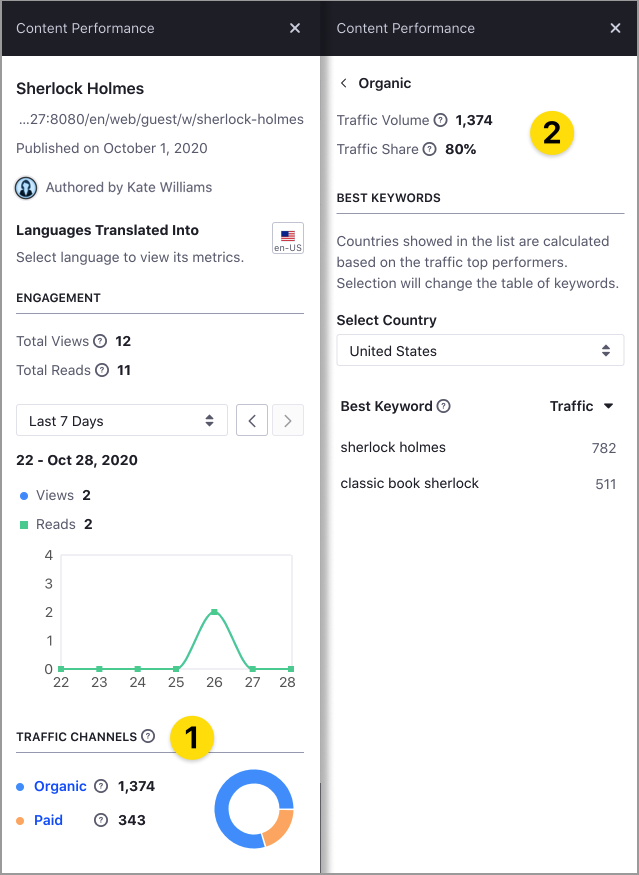
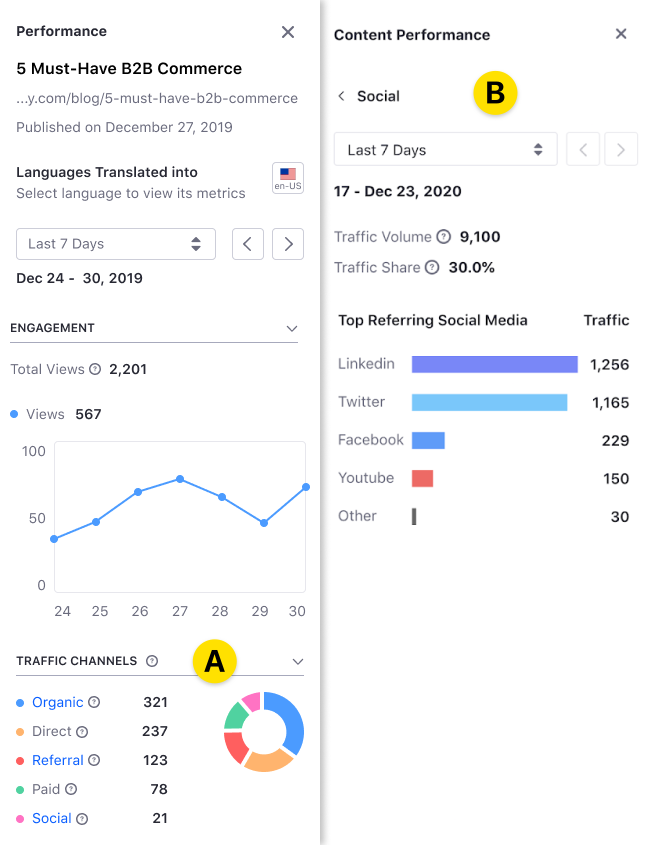
LRDOCS-9218 first draft for SME review

diff --git a/docs/dxp/latest/en/content-authoring-and-management/content-performance-panel/analyze-content-metrics-using-content-performance-panel.md b/docs/dxp/latest/en/content-authoring-and-management/content-performance-panel/analyze-content-metrics-using-content-performance-panel.md
@@ -1,59 +1,82 @@
 # Analyze Content Metrics Using the Content Performance Panel
 
-> Available: Liferay 7.3+.
+> Available: Liferay 7.3+. Some Content Performance options are only available starting with Liferay DXP 7.4.
 
-You can use the Content Performance panel to analyze content metrics, like the number of reads and views, traffic channels, or keywords driving people to your site.
+You can use the Content Performance panel to analyze content metrics, like the number of views, traffic acquisition channels, or keywords driving people to your site. In the Content Performance panel, you can view metrics for the URL of the Content Page, Widget Page, or Web Content associated with a [Display Page Template](../../site-building/displaying-content/using-display-page-templates/displaying-content-with-display-page-templates.md).
 
-Access the Content Performance panel using the *View Metrics* (![View Metrics](../../images/icon-analytics.png)) option for your content. For more information, see [About the Content Performance Panel](./about-the-content-performance-panel.md).
+Access the Content Performance panel using the *View Metrics* (![View Metrics](../../images/icon-analytics.png)) option for your content. You can find this option in the [Applications toolbar](../../getting-started/navigating-dxp.md#applications-bar) and the [Content Dashboard](../content-dashboard/about-the-content-dashboard.md). For more information, see [About the Content Performance Panel](./about-the-content-performance-panel.md).
 
-The Content Performance panel contains two different areas:
+The Content Performance panel contains three different areas:
 
+- [Content Information](#reviewing-content-information)
 - [Engagement](#analyzing-content-engagement)
-- [Search Engine Traffic](#analyzing-search-engine-traffic)
+- [Traffic Channels](#analyzing-traffic-channels)
+
+## Reviewing Content Information
+
+The top area in the Content Performance panel provides general information about your content.
+
+| Label | Description |
+| --- | --- |
+| Content Name | Content or Widget Page's name or name of the asset based on a Display Page Template. |
+| URL | Represent the URL of the Content Page, Widget Page, or Web Content associated with a Display Page Template. |
+| Author | Author's name. This information is only available for Web Content using a Display Page Template. |
+| Publication date | Shows the publication date. Note that when you link the asset to a Display Page Template that is newer than the asset publication date, the publication date corresponds to the Display Page Template creation date. |
+| Languages Translated Into | Shows all the languages available for your site, as well as the default content language. |
+
+The [Engagement](#analyzing-content-engagement) and [Traffic Channels](#analyzing-traffic-channels) areas in the Content Performance panel show statistics for the language selected in the language icon selector. When your content is localized in different languages, you can view metrics for each language.
+
+```note::
+   Even when your content is not translated into a specific language, you may find statistcis for that language if users access the content using that language's URL.
+```
+
+![The top area in the Content Performance panel provides general information about your content.](./analyze-content-metrics-using-content-performance-panel/images/05.png)
 
 ## Analyzing Content Engagement
 
-This area shows the number of Views and Reads of your content, and how these metrics change over time. Views and Reads are two key values to understand your content performance and discover content insights. A visitor accessing content may or may not read it. To distinguish the audience that only visits the content (number of Views) from the audience engaging with the content (number of Reads), Liferay uses a specialized algorithm that considers parameters like article length, language, or scroll behavior, among others.
+This area shows the number of views for the content or Page URL, and how this number changes over time. The number of views is a key value to understand your content performance and discover content insights. For Web Content based on a Display Page Template, the Engagement area shows the number of reads as well. A visitor accessing the Web Content may or may not read it. To distinguish the audience that only visits the content (number of Views) from the audience engaging with the content (number of Reads), Liferay uses a specialized algorithm that considers parameters like article length, language, or scroll behavior, among others.
 
-![The Engagement area in the Content Performance sidebar provides Reads and Views information.](./analyze-content-metrics-using-content-performance-panel/images/06.png)
-
-By default, the Engagement area shows the total number of views and reads for the content, along with the number of views and reads in the last seven days. You can change this period in the drop-down time selector and analyze trends over time using the backward and forward buttons (![Arrow left](../../images/icon-angle-left.png) ![Arrow right](../../images/icon-angle-right.png)). Hover over any part of the line chart to show the Views and Reads for a specific time.
+By default, the Engagement area shows the total number of views for the content, along with the number of views in the last seven days. You can change this period in the drop-down time selector and analyze trends over time using the backward and forward buttons (![Arrow left](../../images/icon-angle-left.png) ![Arrow right](../../images/icon-angle-right.png)). Hover over any part of the line chart to show views for a specific time.
 
 ```note::
    If the Engagement chart shows a zero value for a certain period, it means that the information could not be collected or analyzed for that period.
 ```
 
-When your content is localized in different languages, you can view metrics for each language in the *Languages Translated Into* section. To do so, click on the language icon selector and select the language.
+![The Engagement area in the Content Performance sidebar provides Views information.](./analyze-content-metrics-using-content-performance-panel/images/07.png)
 
-```note::
-   The language selector is only available for localized content.
-```
+## Analyzing Traffic Channels
 
-![You can view metrics for each language in the Content Performance panel.](./analyze-content-metrics-using-content-performance-panel/images/03.png)
+This part of the Content Performance sidebar provides information about the sources driving web traffic to your content. The sources can be:
 
-## Analyzing Search Engine Traffic
+| Traffic Channel | Source Description |
+| --- | --- |
+| Social | Social networks |
+| Organic | Search engines |
+| Paid | Paid keywords |
+| Referral | Sources other than the search engines and same Page's domain |
+| Direct | Other or unknown sources |
 
-This part of the Content Performance sidebar provides information about the sources driving web traffic to your content. The sources can be
+![The Search Engines Traffic area in the Content Performance panel provides information about your traffic channels.](./analyze-content-metrics-using-content-performance-panel/images/06.png)
 
-- **Organic:** People finding the content through a search engine.
-- **Paid:** People finding the content through paid keywords.
+When you click one of the traffic channels (A), you can see extended information for the channel (B).
 
-    ![The Search Engines Traffic area in the Content Performance panel provides information about your traffic sources.](./analyze-content-metrics-using-content-performance-panel/images/07.png)
+![Click on the traffic channels to access additional channel details.](./analyze-content-metrics-using-content-performance-panel/images/02.png)
 
-You can click the sources in the graphic (1) to access additional metrics about these sources, or (2) filter the information by country. The following table describes these metrics:
+The following table describes the metrics you can find in the Traffic Channels area:
 
 | Label | Description |
 | --- | --- |
-| Traffic Volume | The estimated number of visitors to your page |
-| Traffic Share | Percentage of traffic your content receives from the traffic source |
-| Best Keyword | Top five keywords driving traffic through organic search |
-| Best Paid Keyword | Top five keywords driving traffic through paid search |
+| Traffic Volume | The estimated number of visitors to your page. |
+| Traffic Share | Percentage of traffic your content receives from the traffic source. |
+| Best Keyword | Top five keywords driving traffic through organic search. |
+| Best Paid Keyword | Top five keywords driving traffic through paid search. |
+| Top Referring Social Media | Top ten social media networks driving traffic to your Page. |
+| Top Referring Pages | Top ten referrer Pages driving traffic to your Page. |
+| Top Referring Domains | Top ten referrer domains driving traffic to your Page. |
 
 ```note::
    Keywords are one or more words that people use to find content.
 ```
-
-![Click on the traffic channels to access additional details.](./analyze-content-metrics-using-content-performance-panel/images/02.png)
 
 ## Related Information
 

diff --git a/docs/dxp/latest/en/content-authoring-and-management/content-performance-panel/about-the-content-performance-panel.md b/docs/dxp/latest/en/content-authoring-and-management/content-performance-panel/about-the-content-performance-panel.md
@@ -1,8 +1,8 @@
 # About the Content Performance Panel
 
-> Available: Liferay 7.3+.
+> Available: Liferay 7.3+. Some Content Performance options are only available starting with Liferay DXP 7.4.
 
-The *Content Performance* panel is a global application for analyzing performance metrics of your content, like traffic channels or the number of views and reads over time. Using the Content Performance panel, content teams can periodically assess and adapt their content strategy.
+The *Content Performance* panel is a global application for analyzing performance metrics of your content, like traffic acquisition channels or the number of views over time. Using the Content Performance panel, content teams can periodically assess and adapt their content strategy. The Content Performance panel is available for assets based on a [Display Page Template](../site-building/displaying-content/using-display-page-templates/displaying-content-with-display-page-templates.md) and starting with Liferay DXP 7.4, for [Content](../../site-building/creating-pages/building-and-managing-content-pages/content-pages-overview.md) and [Widget](../site-building/creating-pages/using-widget-pages/adding-widgets-to-a-page.md) Pages.
 
 To learn how to analyze your content performance quantitatively using the Content Performance panel, see [Analyze Content Metrics Using the Content Performance panel](./analyze-content-metrics-using-content-performance-panel.md).
 
@@ -10,36 +10,55 @@ To learn how to analyze your content performance quantitatively using the Conten
    To manage and audit your content across Sites and Asset Libraries, use the `Content Dashboard <../content-dashboard/about-the-content-dashboard.md>`_.
 ```
 
-## Accessing the Content Performance Panel
-
-You can open the Content Performance panel from [Web Content](#accessing-the-content-performance-panel-from-web-content) or from the [Content Dashboard](#accessing-the-content-performance-panel-from-the-content-dashboard) using *View Metrics* (![View Metrics](../../images/icon-analytics.png)).
-
 You can access the Content Performance panel when the following conditions are met:
 
-- You have View and Edit permissions for the content.
-- The content is based on a [Display Page Template](../../site-building/displaying-content/using-display-page-templates/displaying-content-with-display-page-templates.md).
 - The Liferay DXP instance has an active [connection to Liferay Analytics Cloud](https://learn.liferay.com/analytics-cloud/latest/en/connecting-data-sources/connecting-liferay-dxp-to-analytics-cloud.html) and your site is synchronized.
+- You have View or Edit permissions for the content.
+- The content is in a Content Page, Widget Page, or is based on a [Display Page Template](../../site-building/displaying-content/using-display-page-templates/displaying-content-with-display-page-templates.md).
 
-```note::
-   The *Metrics* option for your content is available when these conditions are met (2). If the *Metrics* option is unavailable, one or more conditions are not met (1).
-```
+## Accessing the Content Performance Panel
 
-![Ensure that your configuration meets the conditions for showing the content metrics.](./about-the-content-performance-panel/images/01.png)
+You can open the Content Performance panel using the *View Metrics* (![View Metrics](../../images/icon-analytics.png)) button from:
+
+- [Web Content](#accessing-the-content-performance-panel-from-web-content) based on a Display Page Template.
+- [Content or Widget Pages](#accessing-the-content-performance-panel-from-content-or-widget-pages) (Liferay DXP 7.4+).
+- [The Content Dashboard](#accessing-the-content-performance-panel-from-the-content-dashboard).
 
 ### Accessing the Content Performance Panel from Web Content
 
-1. Open the Web Content you want to analyze.
-1. In view mode, click the *View Metrics* icon in the application toolbar.
+You typically display Web Content in the context of a Fragment or Widget using a Display Page Template. When you use a Display Page Template, you can also Display the Web Content using its unique URL.
 
-![Access the Content Performance metrics from the View Metrics button.](./analyze-content-metrics-using-content-performance-panel/images/08.png)
+1. Go to *Site Administration* &rarr; *Content & Data* &rarr; *Web Content*.
+1. Click the *Web Content* tab.
+1. For the Web Content you want to review, click the *Actions* (![Actions](../../images/icon-actions.png)) menu and choose *View Content*.
+
+   ```note::
+      If the *View Content* option is not available, the Web Content is not using a Display Page Template.
+   ```
+
+   ![Access the Content Performance metrics in Web Content.](./about-the-content-performance-panel/images/04.png)
+
+1. In view mode, click the *Content Performance* (![Content Performance](../../images/icon-analytics.png)) icon in the [Applications toolbar](../../getting-started/navigating-dxp.md#applications-bar).
+
+### Accessing the Content Performance Panel from Content or Widget Pages
+
+1. Go to *Site Administration* &rarr; *Site Builder* &rarr; *Pages*.
+1. For the Page you want to review, click the *Actions* (![Actions](../../images/icon-actions.png)) menu and choose *View*.
+1. Click the *Content Performance* (![Content Performance](../../images/icon-analytics.png)) icon in the Application toolbar.
+
+   ![Access the Content Performance metrics in Content or Widget Pages.](./about-the-content-performance-panel/images/03.png)
 
 ### Accessing the Content Performance Panel from the Content Dashboard
 
 1. Open the [Content Dashboard](../content-dashboard/content-dashboard-interface.md#accessing-the-content-dashboard).
 1. On the [Contents list](../content-dashboard/content-dashboard-interface.md#contents-list), click the *Actions* menu (![Actions Menu](../../images/icon-actions.png)) next to the content you want to review, and select *View Metrics*.
-1. Alternatively, hover over the content and click the *View Metrics* (![View Metrics](../../images/icon-analytics.png)) icon.
+1. Alternatively, hover over the content and click the *Content Performance* (![View Metrics](../../images/icon-analytics.png)) icon.
 
-![Access the Performance sidebar from the assets in the Contents list.](./about-the-content-performance-panel/images/02.png)
+![Access the Content Performance metrics from the Content Dashboard.](./about-the-content-performance-panel/images/05.png)
+
+```note::
+   If the *Content Performance* option is not available, your content does not meet one or more conditions. See the `About the Content Performance Panel <#about-the-content-performance-panel>`_ section for more information.
+```
 
 ## Related Information
 

diff --git a/docs/dxp/latest/en/content-authoring-and-management/content-dashboard/about-the-content-dashboard.md b/docs/dxp/latest/en/content-authoring-and-management/content-dashboard/about-the-content-dashboard.md
@@ -5,7 +5,7 @@
 The *Content Dashboard* is a global application for managing your content. From the Content Dashboard page, content authors and marketers can access and audit all content generated across Sites and Asset Libraries in the [Content Audit Tool](./content-dashboard-interface.md#content-audit-tool).
 
 ```note::
-   For analyzing performance metrics of your content, use the `Content Performance panel <../content-performance-panel/about-the-content-performance-panel.md>`_ .
+   For analyzing performance metrics of your content, use the `Content Performance panel <../content-performance-panel/about-the-content-performance-panel.md>`_.
 ```
 
 Using the Content Dashboard, content authors and marketers can analyze their content in different ways:

diff --git a/docs/dxp/latest/en/site-building/creating-pages/using-widget-pages/adding-widgets-to-a-page.md b/docs/dxp/latest/en/site-building/creating-pages/using-widget-pages/adding-widgets-to-a-page.md
@@ -21,5 +21,7 @@ Follow these steps to add a widget to a Widget Page:
 
 ## Additional Information
 
-* [Enabling User Personalization of Widget Pages](./enabling-user-personalization-of-widget-pages.md)
-* [Converting Widget Pages to Content Pages](./converting-widget-pages-to-content-pages.md)
+- [Enabling User Personalization of Widget Pages](./enabling-user-personalization-of-widget-pages.md)
+- [Converting Widget Pages to Content Pages](./converting-widget-pages-to-content-pages.md)
+- [Analyze Content Metrics Using the Content Performance Panel](../../../content-authoring-and-management/content-performance-panel/analyze-content-metrics-using-content-performance-panel.md)
+
